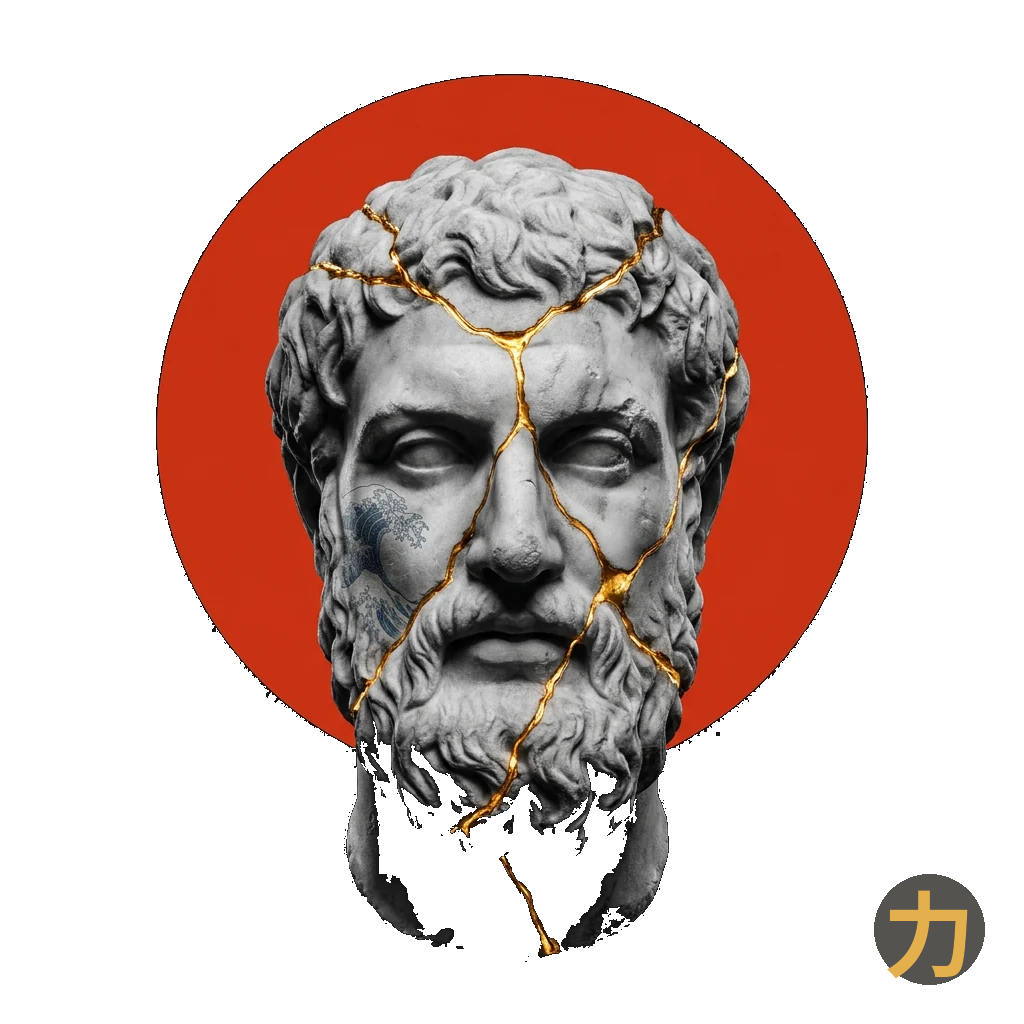
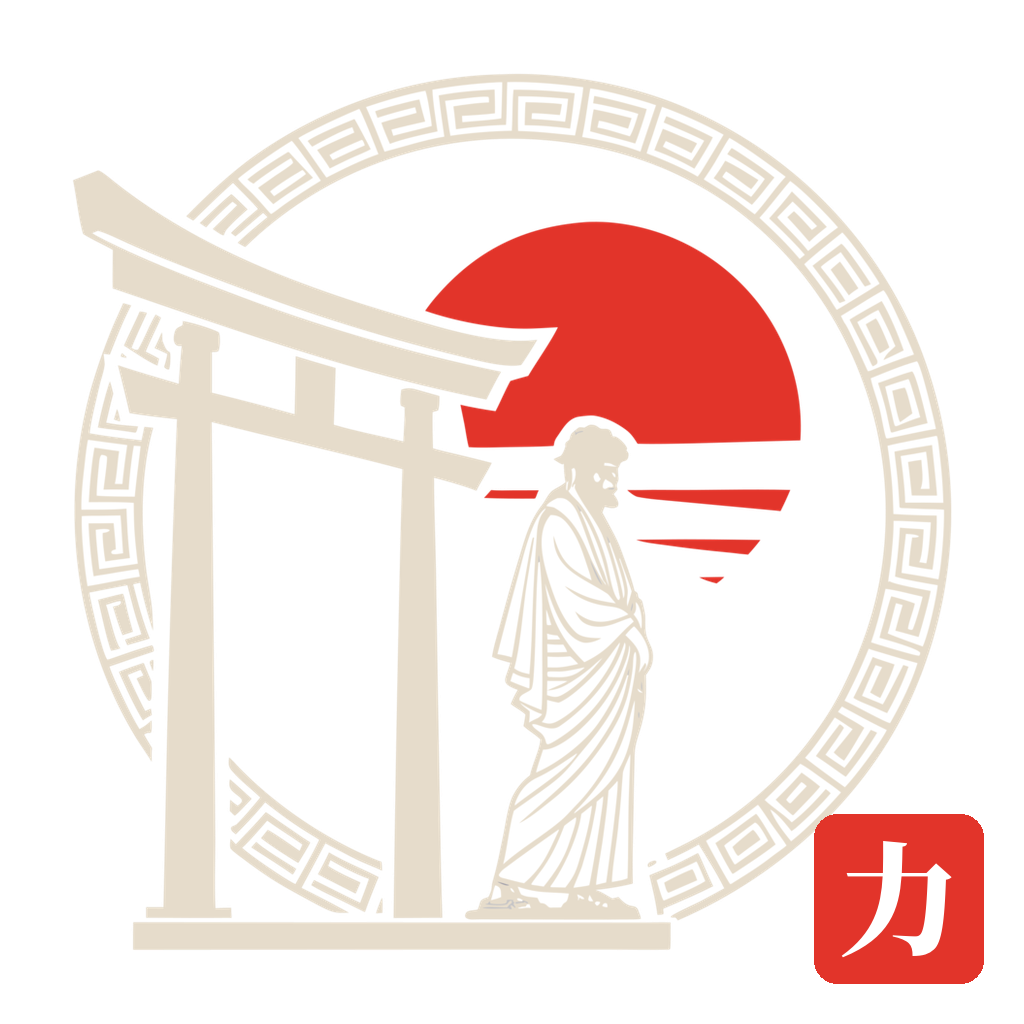
[ryoku] fastfetch: new emblem that reads arch, japanese, greek, ryoku
The old fastfetch logo was a Greek marble bust on a red circle. It really
only said "Greek", the red disc was an ambiguous sun, and it sat on a white
box that looked wrong on the dark terminal.

Redrew it as one mark that carries all four ideas at once: a torii gate,
which is both an arch and unmistakably Japanese, framing a robed Greek
marble philosopher, wrapped in a Greek-key meander ring so the Greek half is
said twice, a vermillion rising sun, and a 力 hanko seal for Ryoku and the
brand red. Bone line-art on a transparent background, so it floats on the
terminal paper instead of sitting in a box.

Drawn with fal.ai (recraft vector), recoloured to the brand palette and
seal-stamped locally. Checked with a real ryoku-fastfetch render in kitty.
Only the emblem asset and the apps changelog change.

diff --git a/ryoku/apps/CHANGELOG.md b/ryoku/apps/CHANGELOG.md
@@ -3,6 +3,13 @@
 ## Unreleased
 
 ### Added
+- `fish/conf.d/rashin.fish` the terminal weave for Ryoku Rashin's `rashin`
+  command: an interactive wrapper that drops a proposed command on the prompt,
+  an **Alt+R** binding that transmutes the current command line into a
+  command, a `fish_postexec` hook that reports proposed-vs-ran corrections to
+  the daemon, and a loader for the generated `rr-<name>` recipe abbreviations.
+  Inert when the `ryoku-rashin` daemon is off or absent. Deployed by
+  `deploy.sh`, shipped by `ryoku-desktop`. See `docs/rashin-terminal.md`.
 - `pipewire/` audio follows the device you just connected. A pipewire-pulse
   drop-in (`pipewire-pulse.conf.d/10-ryoku-switch-on-connect.conf`) loads the
   PulseAudio compat `module-switch-on-connect`, so a Bluetooth headset finishing
@@ -50,6 +57,15 @@
   Settings > GPU is a separate, single-VM path.
 
 ### Changed
+- `fastfetch/` new emblem (`assets/brand/fastfetch-emblem.png`), redrawn to say
+  what Ryoku is in one mark: a torii gate (the arch, and unmistakably Japanese)
+  framing a robed Greek marble philosopher inside a Greek-key meander ring (the
+  Greek half, stated twice), a vermillion rising sun, and a 力 hanko seal. The
+  old bust read as only-Greek with an ambiguous red circle. Bone line-art on a
+  transparent background (no baked backdrop), so it floats on the terminal's
+  paper instead of sitting in a box; the sun and seal carry the brand red.
+  Generated via fal.ai (recraft vector), recoloured to the brand palette and
+  seal-stamped locally.
 - `ryowalls/`: the palette tune is now per-image and one-time. Setting a
   wallpaper writes the tune keyed to that image (`ryoku-wallust.json` gains an
   `image` field); the daemon applies it only while that image is the wallpaper,